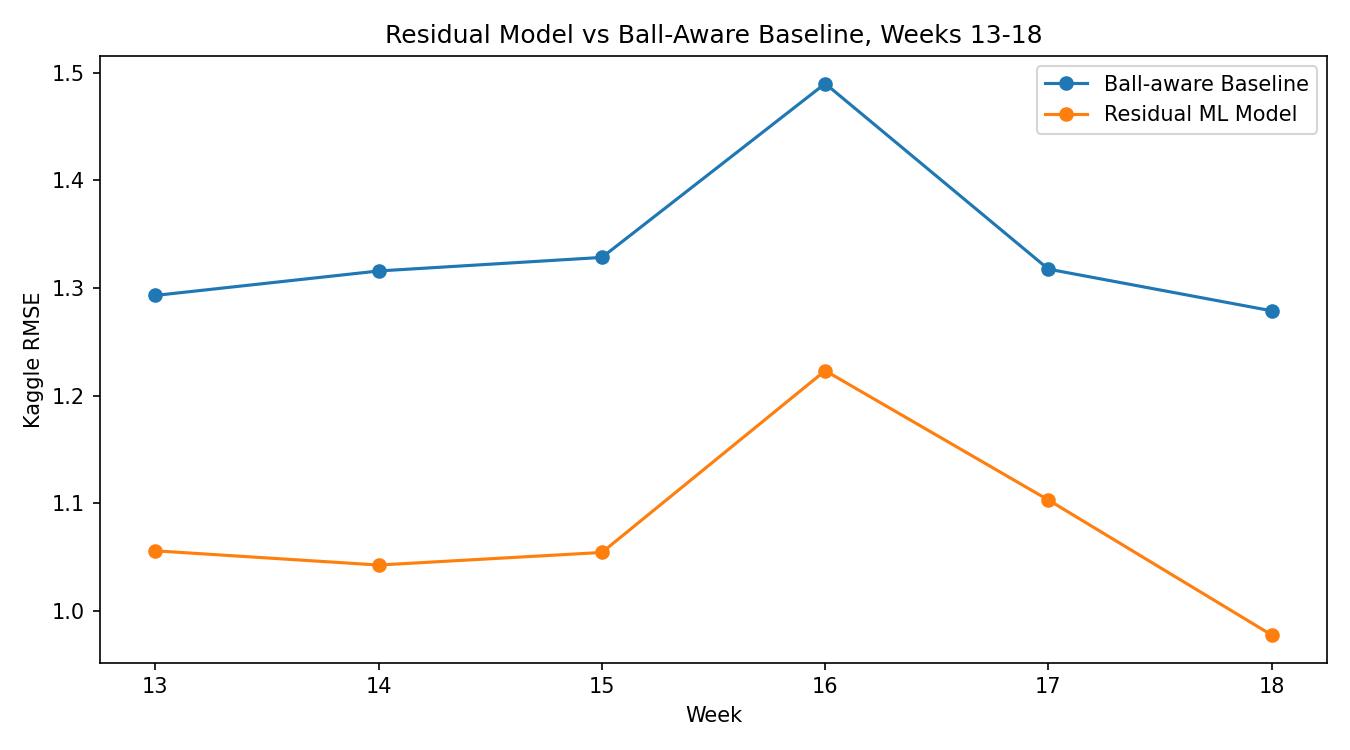
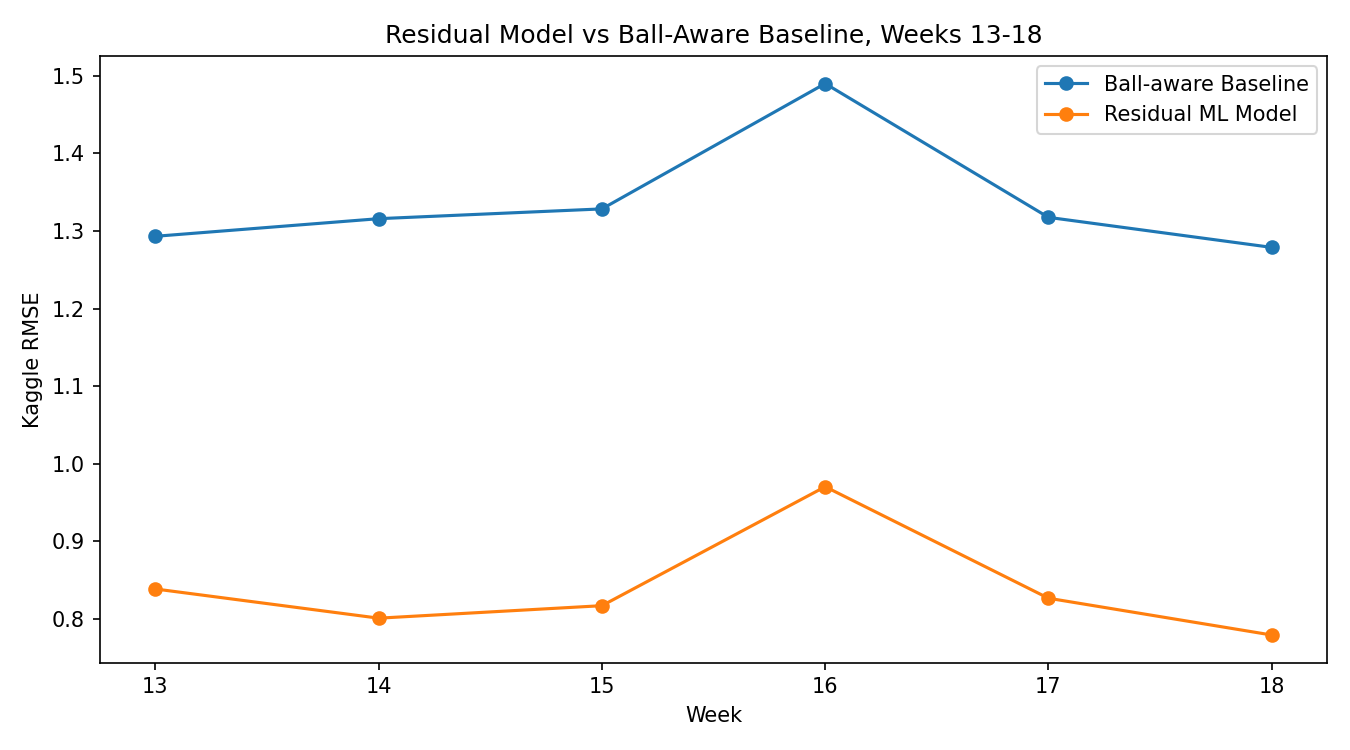
Tune residual model and update holdout results

diff --git a/experiment_hgbr_tuning.py b/experiment_hgbr_tuning.py
@@ -1,0 +1,90 @@
+from pathlib import Path
+import pandas as pd
+import numpy as np
+from sklearn.preprocessing import OneHotEncoder
+from sklearn.pipeline import Pipeline
+from sklearn.compose import ColumnTransformer
+from sklearn.multioutput import MultiOutputRegressor
+from sklearn.ensemble import HistGradientBoostingRegressor
+
+ROOT       = Path(__file__).resolve().parent
+OUTPUT_DIR = ROOT / "outputs"
+
+NUM_COLS = ["frame_id", "t", "last_x", "last_y", "last_s", "last_a", "last_dir", "last_o",
+            "ball_land_x", "ball_land_y", "num_frames_output", "progress",
+            "baseline_x", "baseline_y", "distance_to_ball",
+            "velocity_pred_x", "velocity_pred_y", "vx", "vy",
+            "distance_to_ball_x", "distance_to_ball_y",
+            "angle_to_ball", "time_remaining",
+            "is_targeted_receiver", "is_defensive_coverage", "is_offense", "is_defense",
+            "delta_x_last_1", "delta_y_last_1",
+            "delta_x_last_3", "delta_y_last_3",
+            "speed_change_last_3", "direction_change_last_3",
+            "acceleration_change_last_3", "orientation_change_last_3"]
+CAT_COLS = ["player_role", "player_side", "player_position"]
+TARGETS  = ["residual_x", "residual_y"]
+
+CONFIGS = [
+    ("current (default)",                  {}),
+    ("max_iter=200",                        {"max_iter": 200}),
+    ("max_iter=300",                        {"max_iter": 300}),
+    ("lr=0.05, max_iter=300",               {"learning_rate": 0.05, "max_iter": 300}),
+    ("max_leaf_nodes=31",                   {"max_leaf_nodes": 31}),
+    ("max_leaf_nodes=63",                   {"max_leaf_nodes": 63}),
+    ("l2_regularization=0.01",             {"l2_regularization": 0.01}),
+]
+
+
+def kaggle_rmse(dx, dy):
+    return np.sqrt(np.concatenate([np.asarray(dx)**2, np.asarray(dy)**2]).mean())
+
+
+def build_pipe(hgbr_kwargs):
+    pre = ColumnTransformer([
+        ("num", "passthrough", NUM_COLS),
+        ("cat", OneHotEncoder(handle_unknown="ignore", sparse_output=False), CAT_COLS),
+    ])
+    return Pipeline([
+        ("pre", pre),
+        ("model", MultiOutputRegressor(
+            HistGradientBoostingRegressor(random_state=42, **hgbr_kwargs)
+        )),
+    ])
+
+
+print("Loading data...")
+df    = pd.read_csv(OUTPUT_DIR / "ml_dataset_w01_w18.csv")
+train = df[df["week"] <= 12].reset_index(drop=True)
+val   = df[df["week"] >= 13].reset_index(drop=True)
+print(f"Train rows: {len(train)}  |  Val rows: {len(val)}\n")
+
+baseline_rmse = kaggle_rmse(val["residual_x"].values, val["residual_y"].values)
+print(f"Baseline RMSE (weeks 13-18): {baseline_rmse:.4f}\n")
+print(f"{'#':>2}  {'Config':<30}  {'Model RMSE':>10}  {'Improvement':>11}")
+print("-" * 60)
+
+results = []
+
+for idx, (name, kwargs) in enumerate(CONFIGS, start=1):
+    print(f"[{idx}/{len(CONFIGS)}] Training: {name} ...", flush=True)
+    pipe = build_pipe(kwargs)
+    pipe.fit(train[NUM_COLS + CAT_COLS], train[TARGETS])
+
+    pred   = pipe.predict(val[NUM_COLS + CAT_COLS])
+    res_x  = val["residual_x"].values - pred[:, 0]
+    res_y  = val["residual_y"].values - pred[:, 1]
+    model_rmse = kaggle_rmse(res_x, res_y)
+    improvement = (baseline_rmse - model_rmse) / baseline_rmse * 100
+
+    print(f"{idx:>2}  {name:<30}  {model_rmse:>10.4f}  {improvement:>10.2f}%")
+    results.append({
+        "config": name,
+        "model_rmse": round(model_rmse, 4),
+        "baseline_rmse": round(baseline_rmse, 4),
+        "improvement_pct": round(improvement, 2),
+    })
+
+print("\n--- Summary ---")
+best = min(results, key=lambda r: r["model_rmse"])
+print(f"Best config : {best['config']}")
+print(f"Best RMSE   : {best['model_rmse']:.4f}  ({best['improvement_pct']:.2f}% improvement)")

diff --git a/train_residual_model.py b/train_residual_model.py
@@ -42,7 +42,7 @@ pre = ColumnTransformer([
 ])
 pipe = Pipeline([
     ("pre", pre),
-    ("model", MultiOutputRegressor(HistGradientBoostingRegressor(random_state=42), n_jobs=-1))
+    ("model", MultiOutputRegressor(HistGradientBoostingRegressor(max_iter=300, random_state=42), n_jobs=-1))
 ])
 
 pipe.fit(train[NUM_COLS + CAT_COLS], train[TARGETS])

diff --git a/README.md b/README.md
@@ -48,9 +48,9 @@ All 18 weeks, Kaggle-style RMSE (sqrt of mean squared errors pooled across x and
 A gradient boosting model is trained to predict the residual error of the ball-aware baseline, then added back to the baseline prediction.
 
 - **Approach:** Predict `residual_x` and `residual_y` (true position minus baseline prediction), then add back to `baseline_x / baseline_y`
-- **Model:** `HistGradientBoostingRegressor` wrapped in `MultiOutputRegressor`
+- **Model:** `HistGradientBoostingRegressor(max_iter=300)` wrapped in `MultiOutputRegressor`, tuned via holdout comparison
 - **Validation:** Rolling week splits on weeks 1–5 (train on prior weeks, validate on next week)
-- **Features:** Kinematic state at throw time (position, speed, acceleration, direction, orientation), ball landing coordinates, frame progress, player role/side/position
+- **Features:** Kinematic state at throw time (position, speed, acceleration, direction, orientation), ball landing coordinates, frame progress, player role/side/position, plus recent-motion features derived from the last observed tracking frames (delta position, speed change, direction change, acceleration change, orientation change over last 1 and 3 frames)
 
 | Val Week | Train Rows | Baseline RMSE | Model RMSE | Improvement |
 |---|---|---|---|---|
@@ -70,26 +70,26 @@ Full-season holdout evaluation using an expanded feature set.
 
 - **Train split:** Weeks 1–12 (368,514 rows)
 - **Validation split:** Weeks 13–18 (194,422 rows)
-- **Features:** All kinematic features from the rolling model, plus geometry features: `velocity_pred_x` / `velocity_pred_y` (projected positions from velocity dead-reckoning), `vx` / `vy` (true velocity components), signed distance to ball (`distance_to_ball_x/y`), angle to ball, time remaining, and binary role/side indicators (`is_targeted_receiver`, `is_defensive_coverage`, `is_offense`, `is_defense`)
+- **Features:** All kinematic features from the rolling model, plus geometry features: `velocity_pred_x` / `velocity_pred_y` (projected positions from velocity dead-reckoning), `vx` / `vy` (true velocity components), signed distance to ball (`distance_to_ball_x/y`), angle to ball, time remaining, binary role/side indicators (`is_targeted_receiver`, `is_defensive_coverage`, `is_offense`, `is_defense`), and recent-motion features from the last observed tracking frames
 
 | Metric | Value |
 |---|---|
 | Ball-aware baseline RMSE | 1.3438 |
-| Residual ML model RMSE | **1.0836** |
-| Improvement | **19.36%** |
+| Residual ML model RMSE | **0.8447** |
+| Improvement | **37.14%** |
 
 Per-week results (weeks 13–18):
 
 | Week | Baseline RMSE | Model RMSE | Improvement |
 |---|---|---|---|
-| 13 | 1.2931 | 1.0558 | 18.35% |
-| 14 | 1.3158 | 1.0426 | 20.76% |
-| 15 | 1.3284 | 1.0543 | 20.63% |
-| 16 | 1.4899 | 1.2232 | 17.90% |
-| 17 | 1.3175 | 1.1030 | 16.28% |
-| 18 | 1.2788 | **0.9776** | **23.55%** |
+| 13 | 1.2931 | 0.8386 | 35.15% |
+| 14 | 1.3158 | 0.8010 | 39.12% |
+| 15 | 1.3284 | 0.8171 | 38.49% |
+| 16 | 1.4899 | 0.9704 | 34.87% |
+| 17 | 1.3175 | 0.8267 | 37.25% |
+| 18 | 1.2788 | **0.7793** | **39.06%** |
 
-The model improved RMSE on every validation week. Best single week: Week 18 at 23.55% improvement (model RMSE 0.9776). Results saved to `outputs/residual_model_w13_w18_validation.csv`.
+The model improved RMSE on every validation week. Best single week: Week 18 at 39.06% improvement (model RMSE 0.7793). Results saved to `outputs/residual_model_w13_w18_validation.csv`.
 
 ![Residual Model vs Baseline](outputs/residual_model_w13_w18_rmse.png)
 